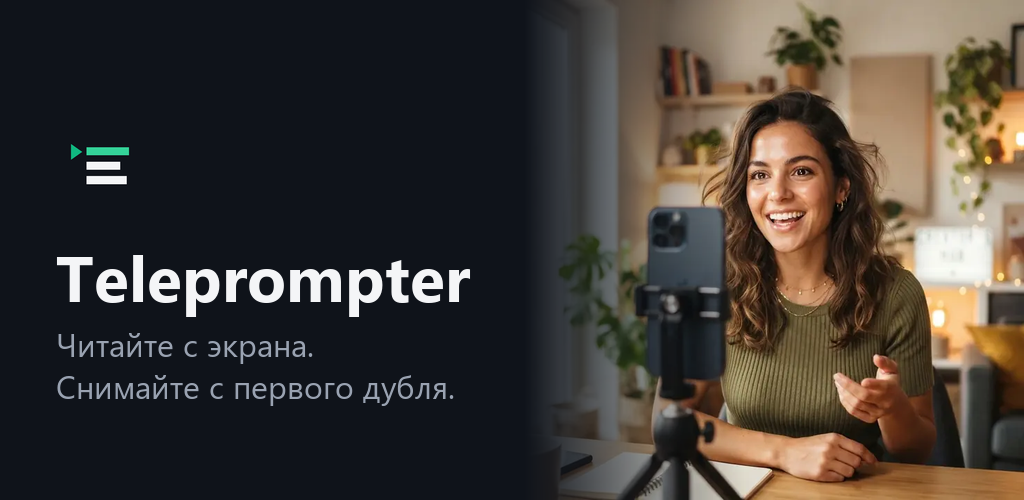
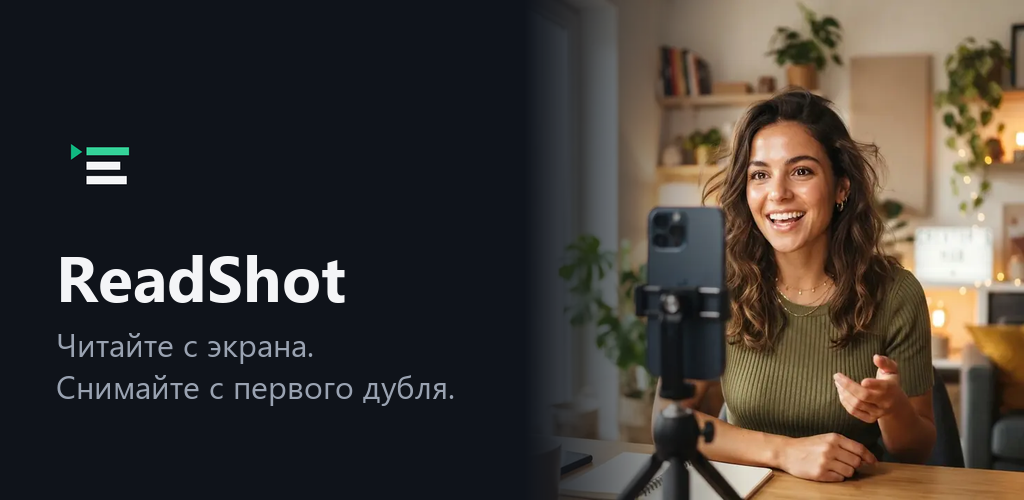
Rename the app to ReadShot
The Teleprompter name was taken. Change the store name, application ID,
video folder, privacy policy and store materials before the first
upload, while the application ID can still change.

Changed region(s): [[0.0312, 0.51, 0.4688, 0.63]]

diff --git a/docs/privacy-policy.html b/docs/privacy-policy.html
@@ -3,7 +3,7 @@
 <head>
 <meta charset="utf-8">
 <meta name="viewport" content="width=device-width,initial-scale=1">
-<title>Teleprompter: политика конфиденциальности</title>
+<title>ReadShot: политика конфиденциальности</title>
 <style>
   body { max-width: 680px; margin: 0 auto; padding: 24px 16px 48px; font: 17px/1.6 system-ui, -apple-system, "Segoe UI", Roboto, Arial, sans-serif; color: #1c212b; background: #fff; }
   h1 { font-size: 28px; line-height: 1.25; }
@@ -13,12 +13,12 @@
 </style>
 </head>
 <body>
-<h1>Политика конфиденциальности Teleprompter</h1>
+<h1>Политика конфиденциальности ReadShot</h1>
 <p>Дата вступления в силу: 1 ноября 2026 года.</p>
-<p>Teleprompter — приложение для Android, которое показывает текст на экране и записывает видео. Приложение работает только на вашем телефоне. Оно не подключается к интернету, не использует рекламу и аналитику и не отправляет разработчику никаких данных.</p>
+<p>ReadShot — приложение для Android, которое показывает текст на экране и записывает видео. Приложение работает только на вашем телефоне. Оно не подключается к интернету, не использует рекламу и аналитику и не отправляет разработчику никаких данных.</p>
 
 <h2>Какие данные обрабатывает приложение</h2>
-<p><strong>Видео и звук.</strong> Камера и микрофон используются только во время съёмки. Видео сохраняется на вашем телефоне, в галерее, в папке Movies/Teleprompter.</p>
+<p><strong>Видео и звук.</strong> Камера и микрофон используются только во время съёмки. Видео сохраняется на вашем телефоне, в галерее, в папке Movies/ReadShot.</p>
 <p><strong>Тексты.</strong> Тексты и субтитры, которые вы пишете или загружаете, хранятся внутри приложения на вашем телефоне.</p>
 <p><strong>Настройки.</strong> Размер текста, скорость и другие настройки тоже хранятся на телефоне.</p>
 
@@ -39,10 +39,10 @@
 
 <hr>
 
-<h1>Teleprompter Privacy Policy</h1>
+<h1>ReadShot Privacy Policy</h1>
 <p>Effective date: 1 November 2026.</p>
-<p>Teleprompter is an Android app that shows text on screen and records video. It works only on your phone. It does not connect to the internet, has no ads or analytics, and sends no data to the developer.</p>
-<p><strong>Video and sound.</strong> The camera and microphone are used only while you shoot. Videos are saved in your phone's gallery, in Movies/Teleprompter.</p>
+<p>ReadShot is an Android app that shows text on screen and records video. It works only on your phone. It does not connect to the internet, has no ads or analytics, and sends no data to the developer.</p>
+<p><strong>Video and sound.</strong> The camera and microphone are used only while you shoot. Videos are saved in your phone's gallery, in Movies/ReadShot.</p>
 <p><strong>Texts and settings.</strong> Texts, subtitles and settings stay inside the app on your phone.</p>
 <p><strong>Permissions.</strong> Camera records video and microphone records sound. On Android 9 and lower the app also asks for storage access to save videos and show recorded clips.</p>
 <p><strong>Sharing.</strong> The developer does not receive, store or share your data. A video leaves your phone only if you send it with the Share button. If Android backup is on, the system may save the app's texts and settings to your Google account. You control this in your phone settings.</p>

diff --git a/app/src/main/java/app/readshot/recorder/Screens.kt b/app/src/main/java/app/readshot/recorder/Screens.kt
@@ -1,4 +1,4 @@
-package app.teleprompter.recorder
+package app.readshot.recorder
 
 import androidx.compose.foundation.Image
 import androidx.compose.foundation.background
@@ -100,7 +100,7 @@ fun WelcomeScreen(onStart: () -> Unit) {
         ) {
             Row(verticalAlignment = Alignment.CenterVertically, horizontalArrangement = Arrangement.spacedBy(10.dp)) {
                 LogoMark()
-                Text("Teleprompter", color = Fg, fontSize = 30.sp, fontWeight = FontWeight.Bold)
+                Text("ReadShot", color = Fg, fontSize = 30.sp, fontWeight = FontWeight.Bold)
             }
             Text("Говорите свободно. Снимайте быстрее. Записывайте уверенные видео с одного дубля.", color = Muted, fontSize = 17.sp)
             Row(horizontalArrangement = Arrangement.spacedBy(8.dp)) {
@@ -201,7 +201,7 @@ fun TextsTab(
     ) {
         Row(verticalAlignment = Alignment.CenterVertically, horizontalArrangement = Arrangement.spacedBy(10.dp)) {
             LogoMark(36.dp)
-            Text("Teleprompter", color = Fg, fontSize = 22.sp, fontWeight = FontWeight.Bold)
+            Text("ReadShot", color = Fg, fontSize = 22.sp, fontWeight = FontWeight.Bold)
         }
         OutlinedTextField(
             value = query,
@@ -468,7 +468,7 @@ fun SettingsTab(st: PrompterState) {
         SettingsContent(st, recording = false)
         val context = LocalContext.current
         val version = remember { context.packageManager.getPackageInfo(context.packageName, 0).versionName }
-        Note("Teleprompter $version")
+        Note("ReadShot $version")
         Spacer(Modifier.height(24.dp))
     }
 }

diff --git a/app/src/main/java/app/readshot/recorder/CameraEngine.kt b/app/src/main/java/app/readshot/recorder/CameraEngine.kt
@@ -1,4 +1,4 @@
-package app.teleprompter.recorder
+package app.readshot.recorder
 
 import android.Manifest
 import android.annotation.SuppressLint
@@ -85,10 +85,10 @@ class CameraEngine(private val context: Context, private val owner: LifecycleOwn
 
         val stamp = SimpleDateFormat("yyyy-MM-dd-HHmmss", Locale.US).format(Date())
         val values = ContentValues().apply {
-            put(MediaStore.MediaColumns.DISPLAY_NAME, "teleprompter-$stamp")
+            put(MediaStore.MediaColumns.DISPLAY_NAME, "readshot-$stamp")
             put(MediaStore.MediaColumns.MIME_TYPE, "video/mp4")
             if (Build.VERSION.SDK_INT >= Build.VERSION_CODES.Q) {
-                put(MediaStore.MediaColumns.RELATIVE_PATH, "Movies/Teleprompter")
+                put(MediaStore.MediaColumns.RELATIVE_PATH, "Movies/ReadShot")
             }
         }
         val output = MediaStoreOutputOptions

diff --git a/app/src/main/java/app/readshot/recorder/MainScreen.kt b/app/src/main/java/app/readshot/recorder/MainScreen.kt
@@ -1,4 +1,4 @@
-package app.teleprompter.recorder
+package app.readshot.recorder
 
 import android.Manifest
 import android.content.Intent
@@ -592,7 +592,7 @@ private fun TakeSheet(
 ) {
     val context = LocalContext.current
     SheetTitle("Дубль готов")
-    Note("Видео уже в галерее, в папке Movies/Teleprompter.")
+    Note("Видео уже в галерее, в папке Movies/ReadShot.")
     if (interrupted) Note("Запись прервалась раньше времени. Сохранено то, что успело записаться.")
     Row(horizontalArrangement = Arrangement.spacedBy(10.dp)) {
         Button(onClick = onWatch, modifier = Modifier.weight(1f)) { Text("Посмотреть") }

diff --git a/app/src/main/java/app/readshot/recorder/Takes.kt b/app/src/main/java/app/readshot/recorder/Takes.kt
@@ -1,4 +1,4 @@
-package app.teleprompter.recorder
+package app.readshot.recorder
 
 import android.content.ContentUris
 import android.content.Context
@@ -25,7 +25,7 @@ fun queryTakes(context: Context): List<Take> {
         collection,
         projection,
         "${MediaStore.Video.Media.DISPLAY_NAME} LIKE ?",
-        arrayOf("teleprompter-%"),
+        arrayOf("readshot-%"),
         "${MediaStore.Video.Media.DATE_ADDED} DESC",
     )?.use { c ->
         while (c.moveToNext()) {

diff --git a/app/src/main/java/app/readshot/recorder/Timeline.kt b/app/src/main/java/app/readshot/recorder/Timeline.kt
@@ -1,4 +1,4 @@
-package app.teleprompter.recorder
+package app.readshot.recorder
 
 /**
  * Maps subtitle time to scroll position and back: a cue scrolls past the reading

diff --git a/app/src/main/java/app/readshot/recorder/Ui.kt b/app/src/main/java/app/readshot/recorder/Ui.kt
@@ -1,4 +1,4 @@
-package app.teleprompter.recorder
+package app.readshot.recorder
 
 import androidx.compose.material3.Text
 import androidx.compose.runtime.Composable

diff --git a/app/src/main/java/app/readshot/recorder/Subtitles.kt b/app/src/main/java/app/readshot/recorder/Subtitles.kt
@@ -1,4 +1,4 @@
-package app.teleprompter.recorder
+package app.readshot.recorder
 
 import java.nio.ByteBuffer
 import java.nio.charset.CharacterCodingException

diff --git a/app/src/test/java/app/readshot/recorder/ScenarioStoreTest.kt b/app/src/test/java/app/readshot/recorder/ScenarioStoreTest.kt
@@ -1,4 +1,4 @@
-package app.teleprompter.recorder
+package app.readshot.recorder
 
 import org.junit.Assert.assertEquals
 import org.junit.Assert.assertFalse

diff --git a/app/src/test/java/app/readshot/recorder/SubtitlesTest.kt b/app/src/test/java/app/readshot/recorder/SubtitlesTest.kt
@@ -1,4 +1,4 @@
-package app.teleprompter.recorder
+package app.readshot.recorder
 
 import org.junit.Assert.assertEquals
 import org.junit.Assert.assertTrue

diff --git a/app/src/main/java/app/readshot/recorder/MainActivity.kt b/app/src/main/java/app/readshot/recorder/MainActivity.kt
@@ -1,4 +1,4 @@
-package app.teleprompter.recorder
+package app.readshot.recorder
 
 import android.os.Bundle
 import android.view.WindowManager
